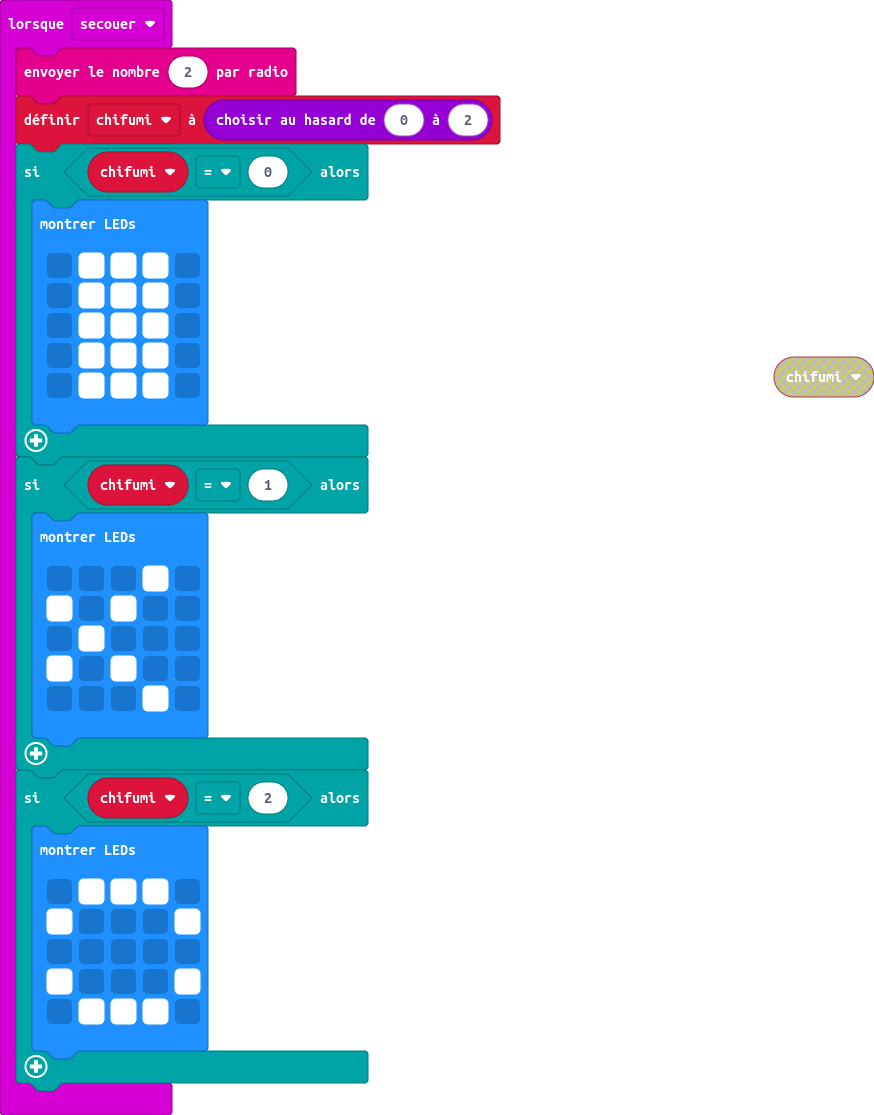
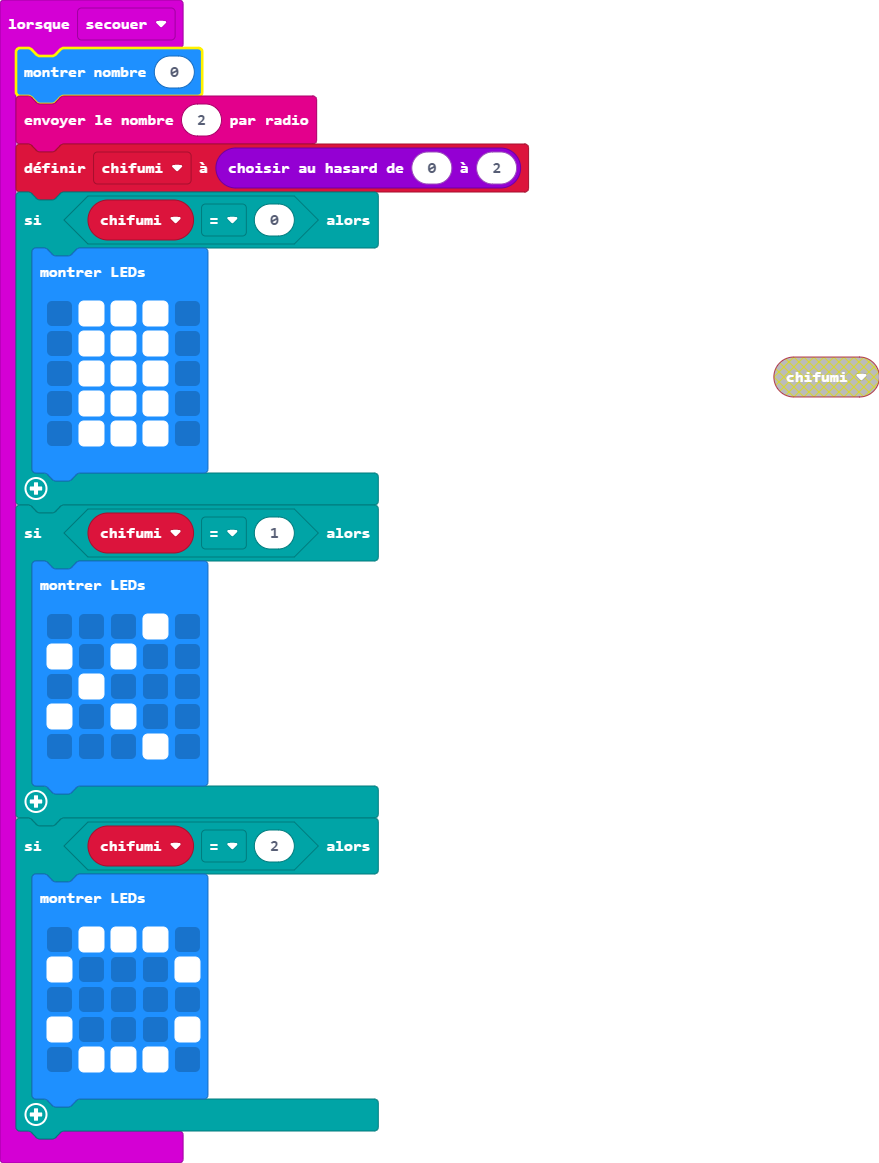
teste

Changed region(s): [[0.0, 0.0, 0.6178, 1.0], [0.865, 0.3049, 1.0, 0.3659], [0.4016, 0.9453, 0.4325, 0.9758]]

diff --git a/main.ts b/main.ts
@@ -1,5 +1,6 @@
 let chifumi = 0
 input.onGesture(Gesture.Shake, function () {
+    basic.showNumber(0)
     radio.sendNumber(2)
     chifumi = randint(0, 2)
     if (chifumi == 0) {
